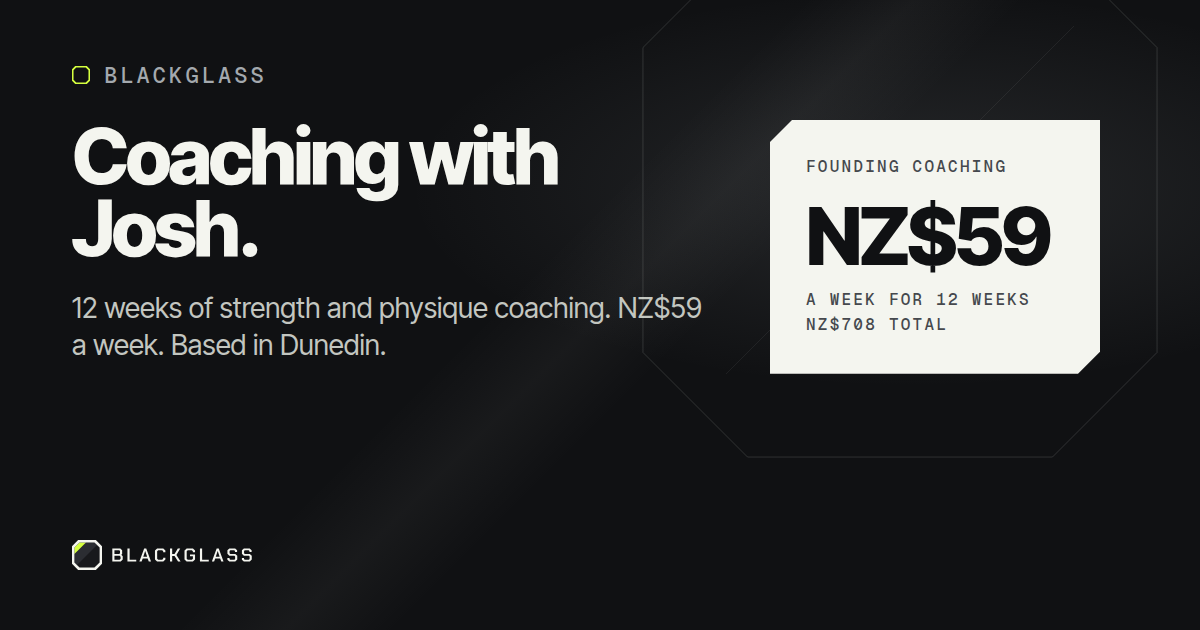
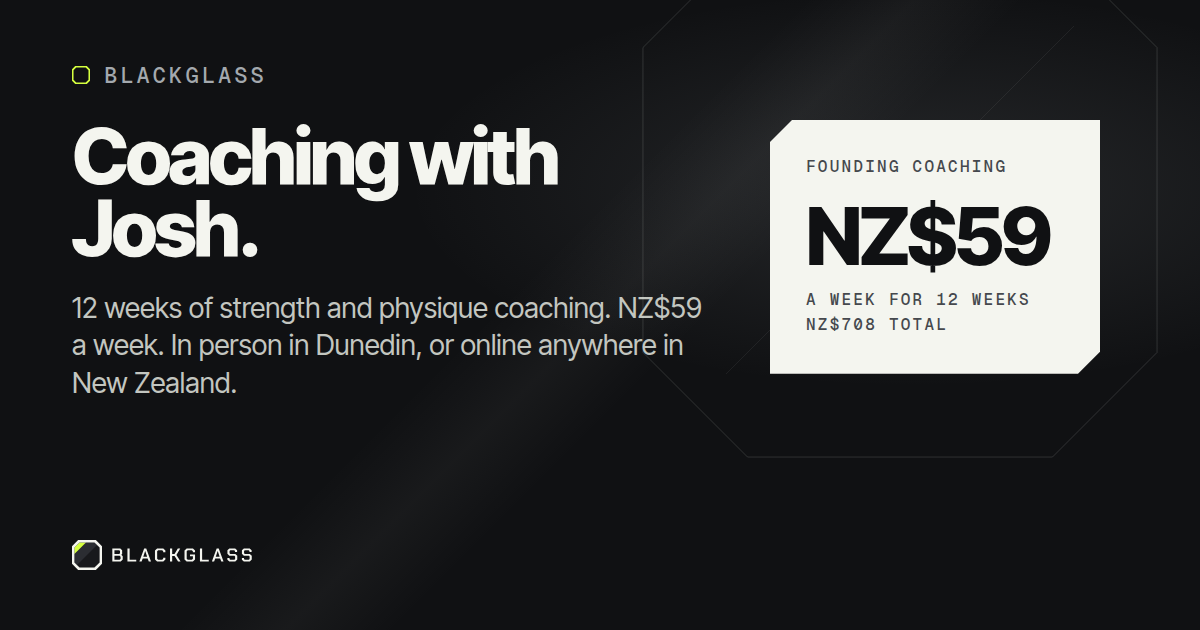
Coaching format in search snippets, link previews and the enquiry form
Search and previews (from the 15 Oct SEO audit):
- /coaching title "Strength coaching in Dunedin or online across NZ" (61
  characters with the template); the description leads with the format and
  ends with the price, 140 characters, so snippets keep both.
- Service JSON-LD names the service and places Dunedin inside New Zealand.
  Its offers block is gone: docs/SEO.md keeps coaching prices out of
  structured data (terms are confirmed in writing), so currencyCode goes too.
- og:site_name, og:locale and og:type now reach every page: a page's own
  openGraph replaced the layout's, so pages spread a shared ogBase.
- /get no longer titles itself "Get Blackglass for Android" while there is
  no download; its og:image alt describes the actual image.
- The /coaching preview image (social kit, re-rendered) says "In person in
  Dunedin, or online anywhere in New Zealand" instead of "Based in Dunedin".
  The unchanged render was first checked to be byte-identical to the
  committed PNG.
- docs/SEO.md: Service block, Google Business Profile eligibility
  (service-area business), www and http redirects seen on 15 Oct, online
  coaching intents.

Conversion (from the 15 Oct funnel review):
- The /coaching hero states the format and price, so phones see them before
  the price card. The home coaching card states the format too.
- On coaching pages, the header's "How it works" and "Questions" go to the
  coaching steps and FAQ instead of the app's sections on the home page.
[…]

Changed region(s): [[0.0617, 0.5127, 0.5858, 0.6333]]

diff --git a/app/coaching/page.tsx b/app/coaching/page.tsx
@@ -6,17 +6,17 @@ import { Faqs } from "@/components/site/faqs";
 import { EnquiryForm, NextSteps } from "@/components/site/forms";
 import { Button, JsonLd, SectionHead, SpecCard, TextLink } from "@/components/site/ui";
 import { coachingFaq } from "@/content/faq";
-import { coaching, contact, site } from "@/content/site";
+import { coaching, contact, ogBase, site } from "@/content/site";
 
 const price = `${coaching.currency}${coaching.weekly}`;
 const NUMBERS = ["zero", "one", "two", "three", "four", "five", "six", "seven", "eight", "nine", "ten", "eleven", "twelve", "thirteen", "fourteen", "fifteen", "sixteen", "seventeen", "eighteen", "nineteen", "twenty"];
 const inWords = (n: number) => NUMBERS[n] ?? String(n);
 
 export const metadata: Metadata = {
-  title: "Strength and physique coaching with Josh",
-  description: `${coaching.weeks} weeks of strength and physique coaching with Josh, in person in Dunedin or online anywhere in New Zealand: a plan built around your week, weekly check-ins and adjustments. Founding price ${price} a week.`,
+  title: "Strength coaching in Dunedin or online across NZ",
+  description: `Strength and physique coaching with ${site.founder}, ${coaching.formatInline}. ${coaching.weeks} weeks, weekly check-ins, ${price} a week.`,
   alternates: { canonical: "/coaching" },
-  openGraph: { title: "Coaching with Josh | Blackglass", description: `A plan built around your week, a check-in every week, and adjustments as you progress. ${coaching.format}. ${price} a week for ${coaching.weeks} weeks.`, url: "/coaching", images: [{ url: "/og/coaching.png", width: 1200, height: 630, alt: "Blackglass coaching with Josh" }] },
+  openGraph: { ...ogBase, title: `Strength coaching with ${site.founder} | Blackglass`, description: `A plan built around your week, a check-in every week, and adjustments as you progress. ${coaching.format}. ${price} a week for ${coaching.weeks} weeks.`, url: "/coaching", images: [{ url: "/og/coaching.png", width: 1200, height: 630, alt: `Coaching with ${site.founder}: ${coaching.weeks} weeks, ${price} a week. ${coaching.format}.` }] },
 };
 
 export default function Coaching() {
@@ -25,14 +25,17 @@ export default function Coaching() {
     { "@type": "ListItem", position: 1, name: "Home", item: `${site.url}/` },
     { "@type": "ListItem", position: 2, name: "Coaching", item: `${site.url}/coaching` },
   ] };
-  // What search engines can read about the offer: only facts the page itself states (price, length, where it runs).
+  // What search engines can read about the service: only facts the page states. No price here: docs/SEO.md keeps offer prices out
+  // of structured data because terms are confirmed in writing.
   const service = {
     "@context": "https://schema.org", "@type": "Service", "@id": `${site.url}/coaching#service`,
-    name: coaching.offerName, serviceType: "Strength and physique coaching", url: `${site.url}/coaching`,
+    name: `Strength and physique coaching with ${site.founder}`, serviceType: "Strength and physique coaching", url: `${site.url}/coaching`,
     provider: { "@type": "Organization", "@id": `${site.url}/#org`, name: site.name },
-    areaServed: [{ "@type": "City", name: "Dunedin" }, { "@type": "Country", name: "New Zealand" }],
+    areaServed: [
+      { "@type": "City", name: "Dunedin", containedInPlace: { "@type": "Country", name: "New Zealand" } },
+      { "@type": "Country", name: "New Zealand" },
+    ],
     description: `${coaching.weeks} weeks of coaching: a plan built around your week, weekly check-ins and adjustments. ${coaching.format}.`,
-    offers: { "@type": "Offer", url: `${site.url}/coaching`, priceSpecification: { "@type": "UnitPriceSpecification", price: coaching.weekly, priceCurrency: coaching.currencyCode, unitText: "week" } },
   };
   return (
     <>
@@ -45,7 +48,7 @@ export default function Coaching() {
             <div>
               <nav className="crumbs label" aria-label="Breadcrumb"><a href="/">Home</a> / Coaching</nav>
               <h1 id="coach-title" className="display">{`Coaching with ${site.founder}.`}</h1>
-              <p className="body-2">{coaching.weeks} weeks of strength and physique coaching built around your actual week: a personal plan, a check-in every week, and adjustments as you progress.</p>
+              <p className="body-2">{coaching.weeks} weeks of strength and physique coaching built around your actual week: a personal plan, a check-in every week, and adjustments as you progress. {coaching.format}. {price} a week.</p>
               <div className="actions"><Button href="#enquire" track="cta_enquire_hero" down>Enquire about coaching</Button></div>
               <p className="label next-steps-label">What happens after you enquire</p>
               <NextSteps />
@@ -80,7 +83,7 @@ export default function Coaching() {
           </div>
         </section>
 
-        <section className="section begin" aria-labelledby="weeks-title" data-sec>
+        <section className="section begin" id="how-it-works" aria-labelledby="weeks-title" data-sec>
           <div className="wrap">
             <div className="section-head"><SectionHead index="02" title={`How the ${coaching.weeks} weeks run`} meta="03 steps" /><h2 id="weeks-title" className="display">{`Week one to week ${inWords(coaching.weeks)}.`}</h2></div>
             <ol className="steps">
@@ -107,7 +110,7 @@ export default function Coaching() {
           </div>
         </section>
 
-        <section className="section faq-end" aria-labelledby="cq-title" data-sec>
+        <section className="section faq-end" id="questions" aria-labelledby="cq-title" data-sec>
           <div className="wrap faq-grid">
             <div className="section-head"><SectionHead title="Questions" meta={`${String(coachingFaq.length).padStart(2, "0")} answers`} /><h2 id="cq-title" className="display">Good to know.</h2></div>
             <Faqs items={coachingFaq} />

diff --git a/app/page.tsx b/app/page.tsx
@@ -5,13 +5,13 @@ import { Reel } from "@/components/site/reel";
 import { Button, JsonLd, Pane, SectionHead, Signal, SpecCard, TextLink } from "@/components/site/ui";
 import { paths } from "@/content/brand";
 import { homeFaq } from "@/content/faq";
-import { coaching, contact, site, socialLinks } from "@/content/site";
+import { coaching, contact, ogBase, site, socialLinks } from "@/content/site";
 
 export const metadata: Metadata = {
   title: { absolute: "Blackglass — Training, technique and food in one app" },
-  description: "Know what today asks of you. Blackglass keeps your programme, today's session, movement guides and food targets in one Android app. In development; join the preview list.",
+  description: "Your programme, today's session, movement guides and food targets in one Android app, built in Dunedin. In development: join the free preview list.",
   alternates: { canonical: "/" },
-  openGraph: { title: "Blackglass — Know what today asks of you", description: "Your programme, today's session, movement guides and food targets in one Android app. Built in Dunedin.", url: "/", images: [{ url: "/og/home.png", width: 1200, height: 630, alt: "Blackglass: know what today asks of you" }] },
+  openGraph: { ...ogBase, title: "Blackglass — Know what today asks of you", description: "Your programme, today's session, movement guides and food targets in one Android app. Built in Dunedin.", url: "/", images: [{ url: "/og/home.png", width: 1200, height: 630, alt: "Blackglass: know what today asks of you" }] },
 };
 
 const demo = [
@@ -187,7 +187,7 @@ export default function Home() {
                   <span id="apply" aria-hidden="true" />
                   <p className="spec-k label"><span className="i">02</span><span>Coaching with {site.founder}</span><span className="live-tag"><Signal />Available now</span></p>
                   <h3 id="offer-coach-title" className="title">Work directly with {site.founder}.</h3>
-                  <p className="body-2">A plan built around your week, a check-in every week, and adjustments as you progress. Available now, with any phone.</p>
+                  <p className="body-2">A plan built around your week, a check-in every week, and adjustments as you progress. Available now, with any phone. {coaching.format}.</p>
                   <div className="price">
                     <p className="monument">{coaching.weekly}</p>
                     <p className="price-labels label"><span>{coaching.currency} a week</span><span>{coaching.weeks} weeks · {coaching.currency}{coaching.total} total</span><span>{coaching.offerName}</span></p>

diff --git a/components/site/forms.tsx b/components/site/forms.tsx
@@ -120,10 +120,8 @@ export function EnquiryForm({ retry = null, typed = {} }: { retry?: Retry | null
       <div className="field"><label htmlFor="e-route">What are you looking for?</label>
         <select id="e-route" name="route" defaultValue={typed.route === "programme" ? "programme" : "coaching"}><option value="coaching">{coaching.weeks}-week coaching</option><option value="programme">Programme only</option></select></div>
       <div className="field"><label htmlFor="e-goal">What do you want to change?</label>
-        <textarea id="e-goal" name="goal" defaultValue={typed.goal} rows={4} maxLength={600} required aria-describedby={bad("goal") ? "e-goal-hint enquire-error" : "e-goal-hint"} autoFocus={bad("goal")} aria-invalid={bad("goal") || undefined} placeholder="Your goal, where you're at, and what has been getting in the way" /><span className="hint" id="e-goal-hint">Please don&rsquo;t include medical details. {site.founder} will ask what&rsquo;s relevant.</span></div>
+        <textarea id="e-goal" name="goal" defaultValue={typed.goal} rows={4} maxLength={600} required aria-describedby={bad("goal") ? "e-goal-hint enquire-error" : "e-goal-hint"} autoFocus={bad("goal")} aria-invalid={bad("goal") || undefined} placeholder="Your goal, where you're at, and what has been getting in the way" /><span className="hint" id="e-goal-hint">A sentence or two is enough. Say whether you&rsquo;d like in person (Dunedin) or online. Please don&rsquo;t include medical details. {site.founder} will ask what&rsquo;s relevant.</span></div>
       <div className="trap" aria-hidden="true"><label htmlFor="e-website">Leave blank</label><input id="e-website" name="website" type="text" tabIndex={-1} autoComplete="off" /></div>
-      {/* Reassurance at the click: what happens next, from facts already on this page. */}
-      <NextSteps className="form-steps" />
       <button className="btn btn-primary" type="submit"><span>Send my enquiry</span><Arrow /></button>
       <p className="form-note">No payment is taken here, and enquiring doesn&rsquo;t commit you to anything. {site.founder} uses these details only to reply. <a href="/privacy">Privacy</a></p>
       <div className="msg" data-form-msg role="status" aria-live="polite" hidden />

diff --git a/app/links/page.tsx b/app/links/page.tsx
@@ -4,14 +4,14 @@ import type { ReactNode } from "react";
 import { appCta, hasDownload } from "@/components/site/chrome";
 import { Arrow } from "@/components/site/ui";
 import { paths } from "@/content/brand";
-import { coaching, contact, site, socialLinks } from "@/content/site";
+import { coaching, contact, ogBase, site, socialLinks } from "@/content/site";
 
 export const metadata: Metadata = {
   title: "Links",
   description: "Join the Blackglass preview list, see how the app works, and coaching with Josh.",
   alternates: { canonical: "/links" },
   robots: { index: false, follow: true },
-  openGraph: { title: "Blackglass", description: "Training, technique and food in one Android app. Built in Dunedin.", url: "/links", images: [{ url: "/og/home.png", width: 1200, height: 630, alt: "Blackglass" }] },
+  openGraph: { ...ogBase, title: "Blackglass", description: "Training, technique and food in one Android app. Built in Dunedin.", url: "/links", images: [{ url: "/og/home.png", width: 1200, height: 630, alt: "Blackglass" }] },
 };
 
 function Item({ href, title, note, primary, track }: { href: string; title: string; note: ReactNode; primary?: boolean; track: string }) {
@@ -42,7 +42,7 @@ export default function Links() {
             note={clauses(hasDownload ? ["Android", "download and install"] : ["Free", "in development", "no iPhone app"])} />
           <Item href="/#how-it-works" track="links_how" title="See how the app works" note="Real screens from the Android build" />
           {coaching.available && <Item href="/coaching" track="links_coaching" title={`Coaching with ${site.founder}`}
-            note={clauses(["Available now", `${coaching.currency}${coaching.weekly}/wk`, `${coaching.weeks} weeks`, "any phone"])} />}
+            note={clauses(["Available now", `${coaching.currency}${coaching.weekly}/wk`, `${coaching.weeks} weeks`, "Dunedin or online", "any phone"])} />}
           {socialLinks.map((s) => (
             <Item key={s.key} href={s.href} track={`links_${s.key}`} title={s.label} note="Follow Blackglass" />
           ))}

diff --git a/app/get/page.tsx b/app/get/page.tsx
@@ -5,19 +5,20 @@ import { Faqs } from "@/components/site/faqs";
 import { PreviewForm } from "@/components/site/forms";
 import { Brackets, Button, JsonLd, Pane, SectionHead, Signal, TextLink } from "@/components/site/ui";
 import { getFaq, getFaqLive, previewSteps } from "@/content/faq";
-import { app, coaching, contact, site } from "@/content/site";
+import { app, coaching, contact, ogBase, site } from "@/content/site";
 
 const hasPlay = Boolean(app.android.playUrl);
 const hasApk = !hasPlay && Boolean(app.android.apkUrl);
 const hasDownload = hasPlay || hasApk;
 
 export const metadata: Metadata = {
-  title: "Get Blackglass for Android",
+  // Until there is a download, the title says what the page offers instead of implying one.
+  title: hasDownload ? "Get Blackglass for Android" : { absolute: "Blackglass for Android: join the preview list" },
   description: hasDownload
     ? "Download Blackglass for Android and follow the install steps. Your programme, sessions, movement guides and food targets in one app."
     : "Blackglass for Android is in development. Join the free preview list to hear first when there's a build you can install. There is no iPhone app.",
   alternates: { canonical: "/get" },
-  openGraph: { title: "Get Blackglass for Android", description: hasDownload ? "Download Blackglass for Android." : "Blackglass for Android is in development. Join the preview list.", url: "/get", images: [{ url: "/og/get.png", width: 1200, height: 630, alt: "Get Blackglass for Android" }] },
+  openGraph: { ...ogBase, title: hasDownload ? "Get Blackglass for Android" : "Blackglass for Android: join the preview list", description: hasDownload ? "Download Blackglass for Android." : "Blackglass for Android is in development. Join the preview list.", url: "/get", images: [{ url: "/og/get.png", width: 1200, height: 630, alt: hasDownload ? "Get Blackglass for Android" : "Be first on the Android build. Blackglass for Android is in development." }] },
 };
 
 export default function Get() {

diff --git a/components/site/chrome.tsx b/components/site/chrome.tsx
@@ -10,6 +10,8 @@ export function Header({ current, result = false }: { current?: string; result?:
   const onGet = current === "/get";
   const onCoaching = current === "/coaching";
   const getTarget = !onGet ? "/get" : `${result ? "/get" : ""}#${hasDownload ? "android" : "preview"}`;
+  // On coaching pages "How it works" and "Questions" mean the coaching steps and FAQ, not the app's sections on the home page.
+  const navHref = (href: string) => (onCoaching && href.startsWith("/#") ? `/coaching${href.slice(1)}` : href);
   return (
     <header className="hdr">
       <a className="hdr-brand" href="/" aria-label="Blackglass home">
@@ -20,7 +22,7 @@ export function Header({ current, result = false }: { current?: string; result?:
       </a>
       <nav className="hdr-nav" aria-label="Main">
         {nav.map((item) => (
-          <a key={item.href} className="link" href={item.href} aria-current={current === item.href ? "page" : undefined}><span>{item.label}</span></a>
+          <a key={item.href} className="link" href={navHref(item.href)} aria-current={current === item.href ? "page" : undefined}><span>{item.label}</span></a>
         ))}
       </nav>
       {/* On coaching pages the header's action leads to the enquiry form. */}
@@ -42,7 +44,7 @@ export function Header({ current, result = false }: { current?: string; result?:
         <div className="menu-sheet">
           <nav aria-label="Mobile">
             <a href="/">Home</a>
-            {nav.map((item) => <a key={item.href} href={item.href}>{item.label}</a>)}
+            {nav.map((item) => <a key={item.href} href={navHref(item.href)}>{item.label}</a>)}
             <a href="/get" data-track="cta_get_menu">{appCta}</a>
           </nav>
           <p className="menu-note label">Built in {site.location.split(",")[0]} · <a className="inline-link" href={`mailto:${contact.email}`}>Email {site.founder}</a></p>

diff --git a/app/movements/page.tsx b/app/movements/page.tsx
@@ -2,12 +2,13 @@ import type { Metadata } from "next";
 import { appCta, Footer, hasDownload, Header } from "@/components/site/chrome";
 import { MovementStudio } from "@/components/site/movement-studio";
 import { Button, SectionHead, TextLink } from "@/components/site/ui";
+import { ogBase } from "@/content/site";
 
 export const metadata: Metadata = {
   title: "Movement Studio",
   description: `Explore Blackglass’s new back squat, deadlift and push-up movement artwork. Two views, slow playback and phase controls. ${hasDownload ? "Available for Android." : "Android app in development."}`,
   alternates: { canonical: "/movements" },
-  openGraph: { title: "Blackglass — Movement Studio", description: "Three movement studies. Two views. Your pace.", url: "/movements", images: [{ url: "/og/home.png", width: 1200, height: 630, alt: "Blackglass — Train with intent" }] },
+  openGraph: { ...ogBase, title: "Blackglass — Movement Studio", description: "Three movement studies. Two views. Your pace.", url: "/movements", images: [{ url: "/og/home.png", width: 1200, height: 630, alt: "Blackglass: know what today asks of you" }] },
 };
 
 export default function Movements() {

diff --git a/content/site.ts b/content/site.ts
@@ -12,6 +12,9 @@ export const site = {
   founder: "Josh",
 };
 
+/** Open Graph fields every page shares. A page's own `openGraph` replaces the layout's entirely, so pages spread this in. */
+export const ogBase = { siteName: site.name, locale: "en_NZ", type: "website" as const };
+
 export const contact = {
   email: "joshuanicolai@live.com",
   phone: "+64273279614",
@@ -48,9 +51,11 @@ export const coaching = {
   weekly: 59,
   weeks: 12,
   currency: "NZ$",
-  currencyCode: "NZD", // ISO 4217, for structured data
-  /** Josh's decisions: both formats (4 Oct 2026); online is anywhere in New Zealand (7 Oct 2026). */
+  /** Josh's decisions: both formats (4 Oct 2026); online is anywhere in New Zealand (7 Oct 2026).
+   *  `/coaching`'s search data (Service areaServed) names the same two places: update it if this changes. */
   format: "In person in Dunedin, or online anywhere in New Zealand",
+  /** The format mid-sentence ("…, in person in Dunedin, or online…"). */
+  get formatInline() { return this.format.charAt(0).toLowerCase() + this.format.slice(1); },
   get total() { return this.weekly * this.weeks; },
 };
 

diff --git a/app/layout.tsx b/app/layout.tsx
@@ -1,14 +1,14 @@
 import type { Metadata, Viewport } from "next";
 import "./tokens.css";
 import "./site.css";
-import { site } from "@/content/site";
+import { ogBase, site } from "@/content/site";
 
 export const metadata: Metadata = {
   metadataBase: new URL(site.url),
   title: { default: "Blackglass — Train with intent", template: "%s | Blackglass" },
   description: "Blackglass keeps your programme, today's session, movement guides and food targets in one clear Android app, built in Dunedin, New Zealand.",
   applicationName: site.name,
-  openGraph: { siteName: site.name, locale: "en_NZ", type: "website" },
+  openGraph: { ...ogBase, images: [{ url: "/og/home.png", width: 1200, height: 630, alt: "Blackglass: know what today asks of you" }] },
   twitter: { card: "summary_large_image" },
   manifest: "/site.webmanifest",
   icons: {

diff --git a/app/site.css b/app/site.css
@@ -192,7 +192,6 @@ a, button, summary, [role="tab"], label { -webkit-tap-highlight-color: transpare
 .next-steps li { position: relative; padding-left: 40px; color: var(--fg-2); counter-increment: ns; }
 .next-steps li::before { content: "0" counter(ns); position: absolute; left: 0; top: .3em; font: 500 var(--fs-label)/1.4 var(--font-mono); letter-spacing: var(--tr-label); color: var(--fg-3); }
 .next-steps-label { margin-top: 40px; }
-.form-steps { margin: 28px 0 0; }
 /* Result and retry pages (static routes a no-JavaScript submit lands on). */
 .result-msg { max-width: 40rem; margin: 8px 0 32px; }
 .result-next { max-width: 40rem; margin: 0 0 32px; }

diff --git a/content/faq.ts b/content/faq.ts
@@ -62,7 +62,7 @@ export const coachingFaq: Faq[] = [
   },
   {
     q: "Do I need to be in Dunedin?",
-    a: `No. Coaching runs ${coaching.format.charAt(0).toLowerCase()}${coaching.format.slice(1)}.`,
+    a: `No. Coaching runs ${coaching.formatInline}.`,
   },
   {
     q: "Do I need the app to start coaching?",

diff --git a/docs/SEO.md b/docs/SEO.md
@@ -15,7 +15,8 @@ No ranking is guaranteed. This follows Google Search Central guidance (people-fi
 - **Structured data**, only where the visible content supports it:
   - **Organization** (name, URL, logo, email, Dunedin NZ; `sameAs` only for verified social accounts) and **WebSite** on the homepage.
   - **BreadcrumbList** on `/get` and `/coaching`.
-  - **Deliberately not added:** FAQPage (Google limits these results to government and health sites), SoftwareApplication (the app isn't available to download, and there are no ratings), and Product or Offer prices for coaching (not eligible for a rich result, and prices are confirmed in writing).
+  - **Service** on `/coaching`: the coaching offer, its provider and where it runs (Dunedin, and New Zealand for online coaching), with no price.
+  - **Deliberately not added:** FAQPage (Google limits these results to government and health sites), SoftwareApplication (the app isn't available to download, and there are no ratings), and Product or Offer prices for coaching (not eligible for a rich result, and prices are confirmed in writing; that's why the Service block has no `offers`).
 - **Lab checks** (Lighthouse mobile, production build): SEO 100 on every indexable page.
 
 ## Needs account access (not done)
@@ -25,8 +26,8 @@ No ranking is guaranteed. This follows Google Search Central guidance (people-fi
    - Use URL Inspection on `/`, `/get` and `/coaching`, then request indexing.
    - After the first month, check Pages (indexing), Core Web Vitals (real-user LCP, INP and CLS) and Performance (queries). Search Console is where the real-user Core Web Vitals appear once there's enough traffic.
 2. **Bing Webmaster Tools.** Import from Search Console. This also covers DuckDuckGo and Ecosia results.
-3. **Google Business Profile**, only if coaching is offered at a Dunedin location people can visit, or as a service-area business. Don't create one for the app alone.
-4. **Fix `www.blackglass.co.nz`.** It currently resets the connection. Add it in the Sites custom-domain settings, or redirect it to the apex domain, so shared `www` links work and don't split signals.
+3. **Google Business Profile.** Coaching now runs in person in Dunedin, so Blackglass can have one. Set it up as a service-area business (Dunedin, with the address hidden) unless clients visit a staffed Blackglass location. This needs Josh's Google account. Don't create one for the app alone.
+4. **Redirect `www` and `http` permanently.** Checked 15 Oct: `https://www.blackglass.co.nz` serves a full copy of the site (200, with canonicals to the apex), and `http://` redirects to `https://` with a temporary `302`. In the Sites or Cloudflare domain settings, make `www` a `301` to `https://blackglass.co.nz` (keeping the path), and make the `http` upgrade a `301`. Canonicals cover it for now, but permanent redirects consolidate signals faster.
 5. **Social profiles.** Once they exist, add them to `content/site.ts → social`. That updates `sameAs` and the footer.
 
 ## Search intent (no volume figures; check them in Search Console once data exists)
@@ -35,10 +36,11 @@ No ranking is guaranteed. This follows Google Search Central guidance (people-fi
 |---|---|
 | "blackglass app", "blackglass fitness" (brand) | Home, /get |
 | "strength training app android", "workout planner app", "gym programme app" | Home (demo) → /get. Honest availability matters more than ranking here. |
-| "strength coaching dunedin", "personal training dunedin", "physique coaching nz" | /coaching (Dunedin-based offer, stated price) |
+| "strength coaching dunedin", "personal training dunedin", "physique coaching nz" | /coaching (in person in Dunedin, stated price) |
+| "online strength coach nz", "online personal trainer new zealand", "online physique coaching" | /coaching (online anywhere in New Zealand, stated price) |
 | "push pull legs 6 day split", "ab wheel rollout form" (informational) | Backlog below. Only publish with Josh's review. |
 
-New Zealand and Dunedin wording is used only where the offer is local: coaching, and "built in Dunedin" as a brand fact.
+New Zealand and Dunedin wording is used only where it's true of the offer: coaching runs in person in Dunedin or online anywhere in New Zealand, and "built in Dunedin" is a brand fact.
 
 ## Content backlog (useful pages, not keyword pages)
 
